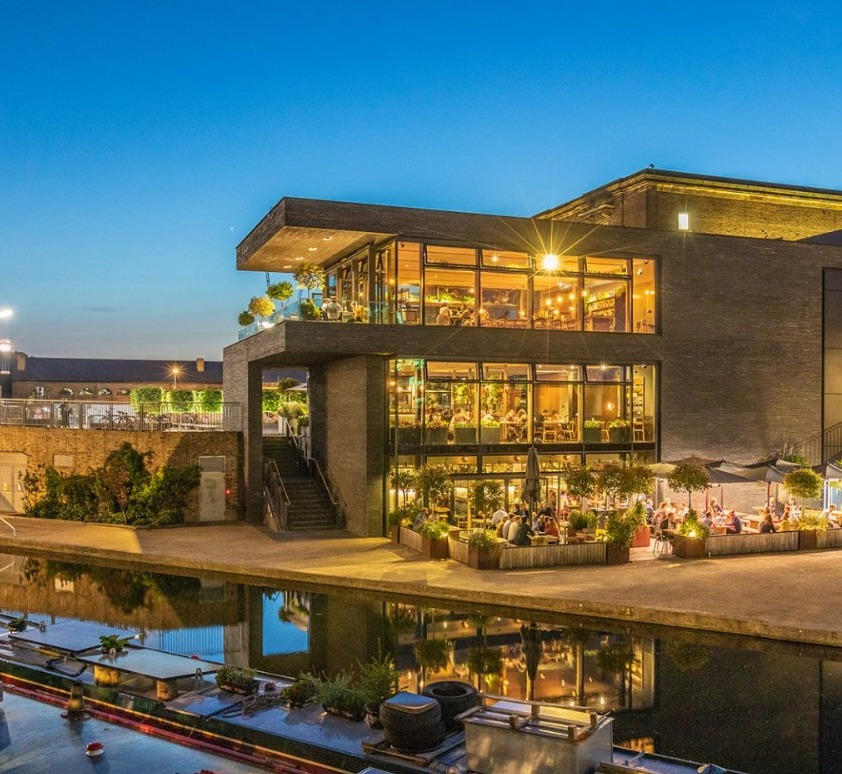
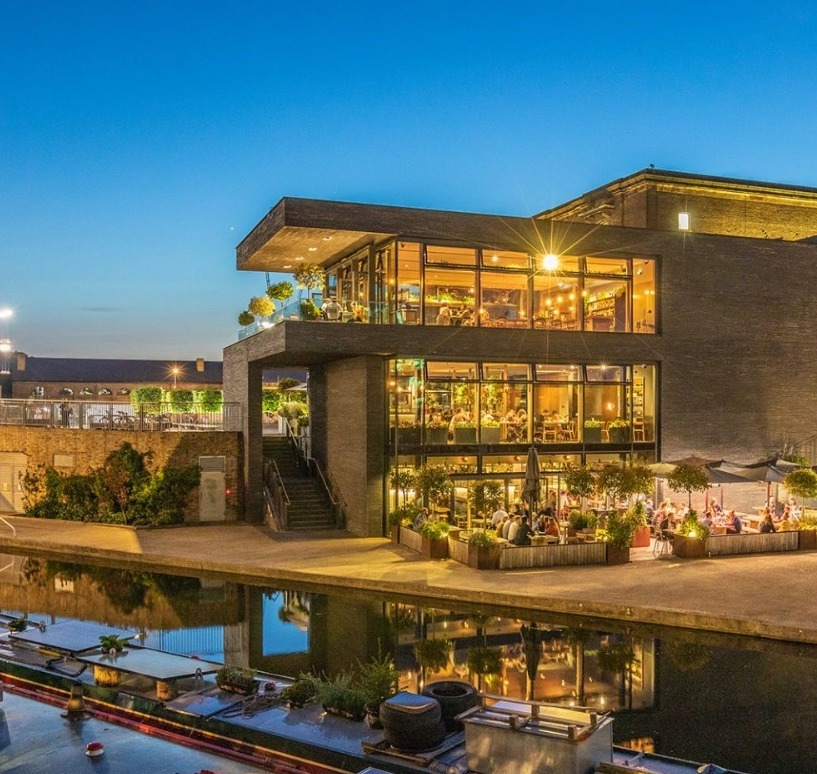
make venue pictures square

diff --git a/index.html b/index.html
@@ -122,7 +122,7 @@
 					<div class="owl-carousel testimonials-carousel">
 
 						<div class="testimonial-item">
-							<img src="assets/img/about/1.jpg" class="testimonial-img" alt="">
+							<img src="assets/img/about/1.png" class="testimonial-img" alt="">
 							<h3>The Orangery, Holland Park</h3>
 							<h4>Ceremony Venue</h4>
 							<p>
